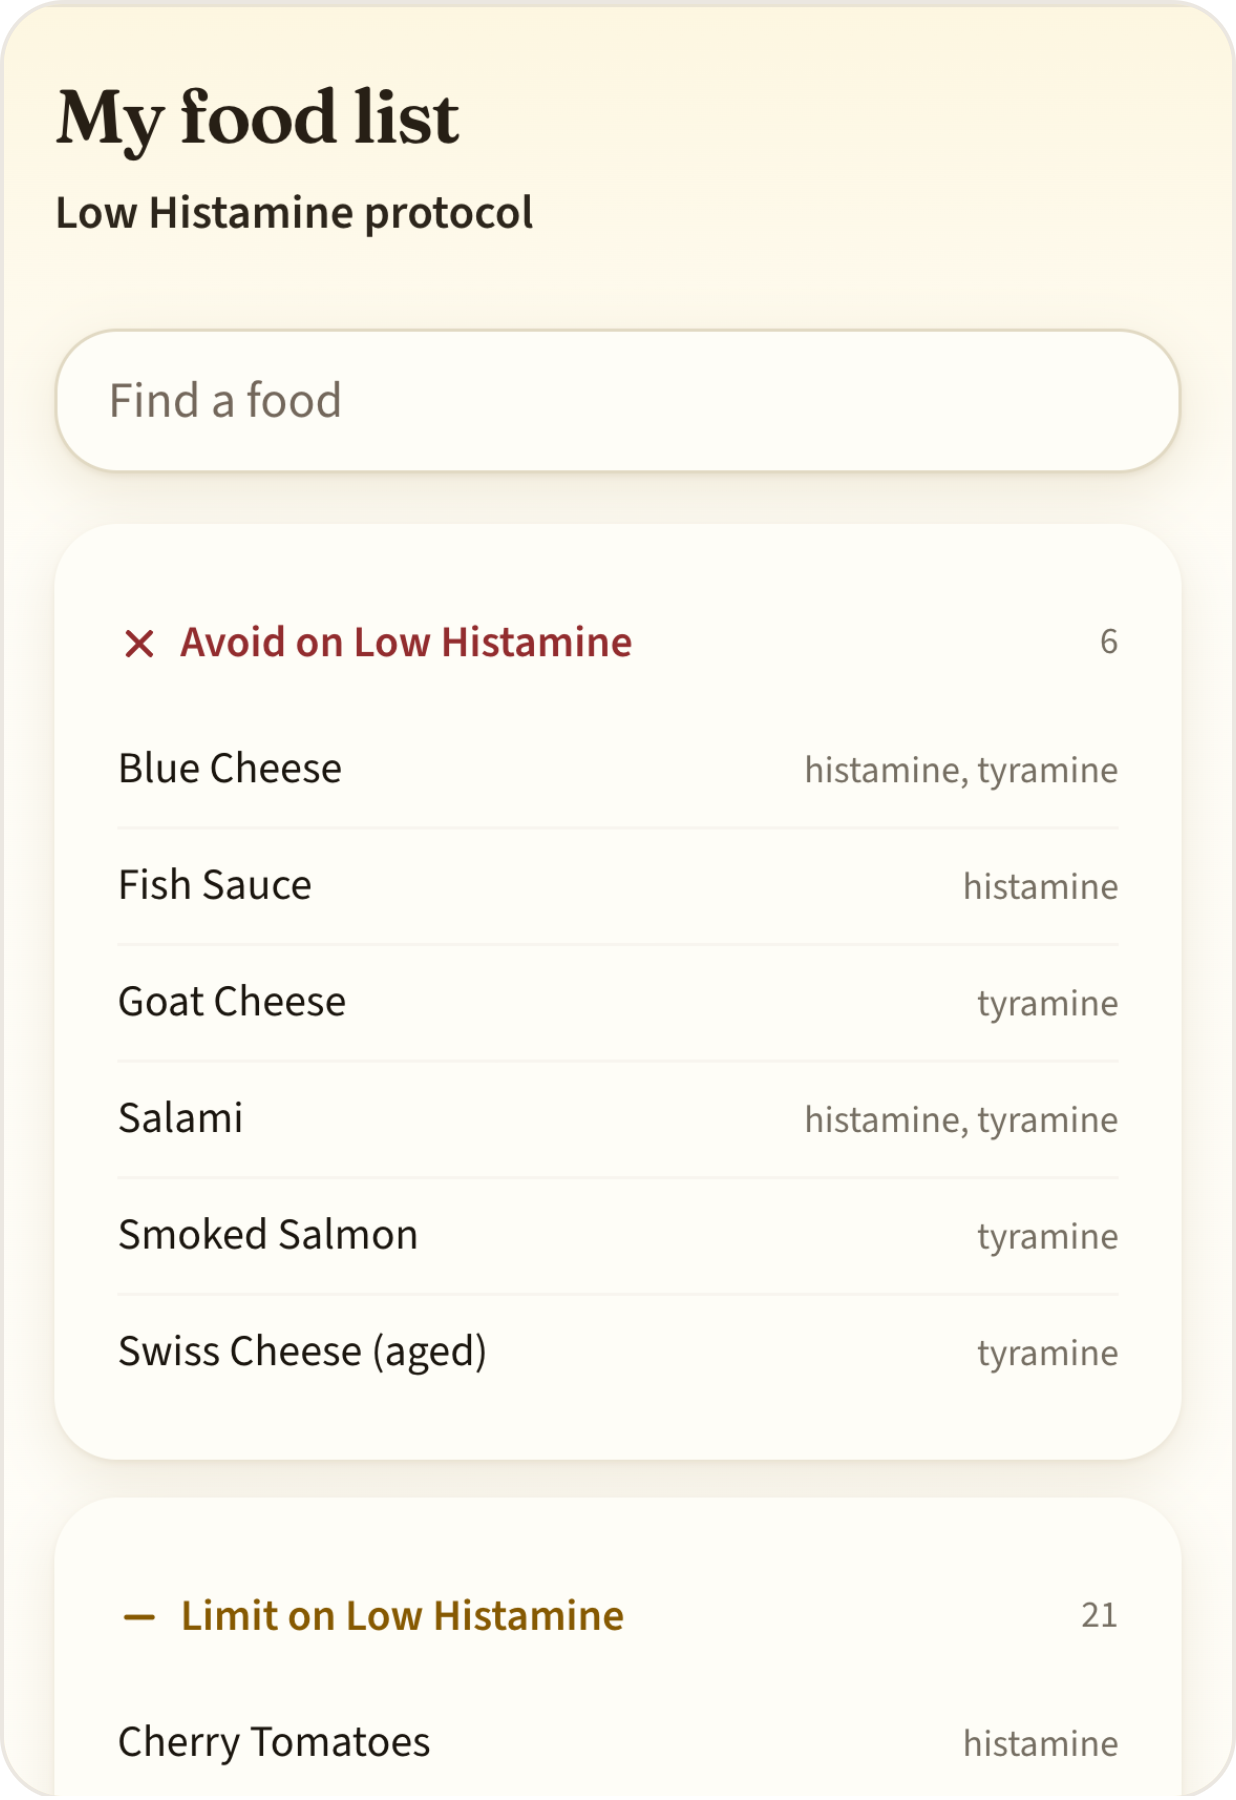
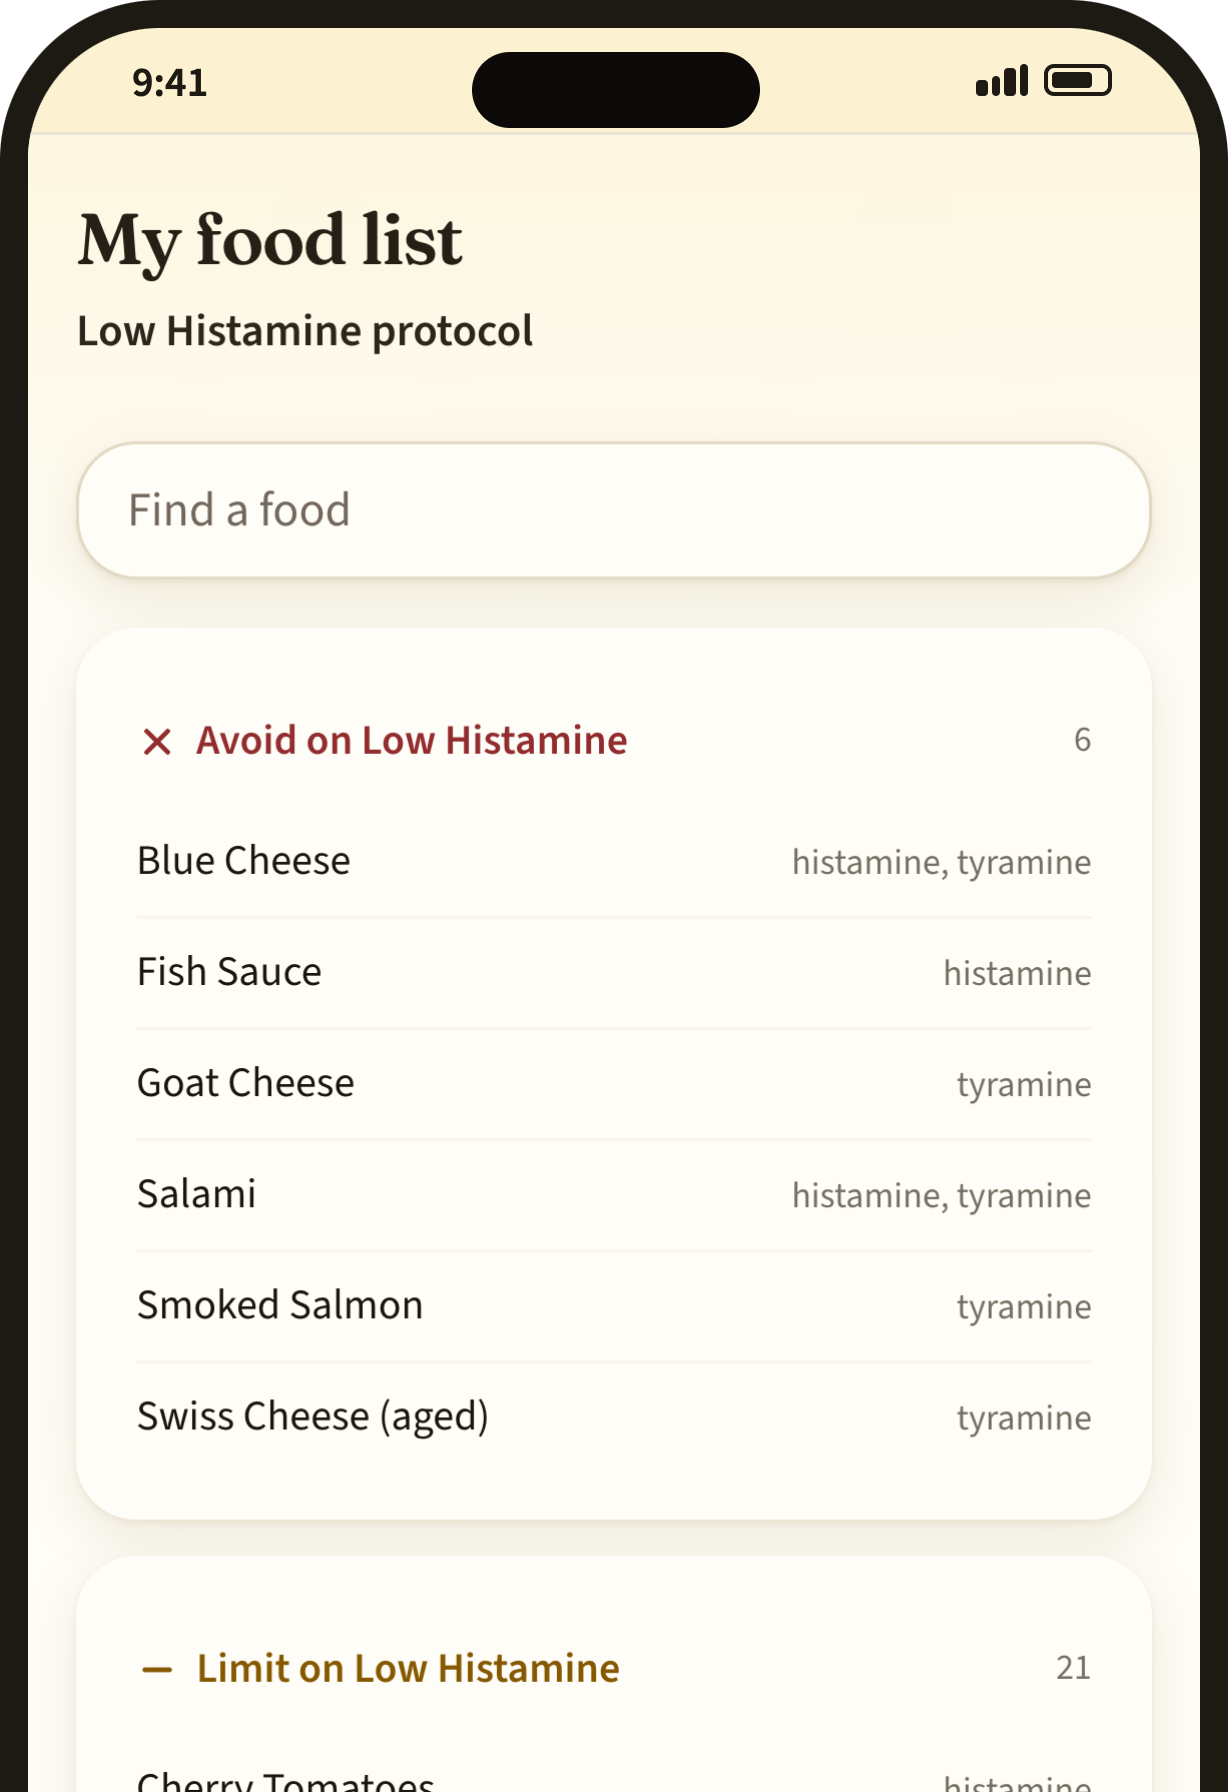
fix(demo): oxalate load drives joint pain, histamine drives hives; PDF cards in iPhone frames
Joint pain was planted only after spinach and almonds while quinoa, sweet potato and
green beans (also very high oxalate) sat in everyday meals, and spinach was the only
histamine food, so Insights tied joint pain to histamine. Everyday meals are now low in
oxalate, very-high-oxalate foods come together on her high-oxalate days, spinach is
occasional, and strawberry slips (a histamine releaser) bring hives.

diff --git a/.impeccable/review-2026-11/pdf-final/phone-frame.html b/.impeccable/review-2026-11/pdf-final/phone-frame.html
@@ -1,0 +1,18 @@
+<!doctype html><meta charset="utf-8">
+<link rel="stylesheet" href="https://fonts.googleapis.com/css2?family=Source+Sans+3:wght@600&display=block">
+<style>
+/* Each PDF card as the top of an iPhone: black frame on top and sides, Dynamic Island,
+   status bar; the phone runs off the bottom of the card. */
+body{margin:0;background:transparent;font-family:"Source Sans 3",sans-serif}
+.c{width:307px;height:448px;box-sizing:border-box;background:#1d1a14;padding:7px 7px 0;border-radius:40px 40px 0 0;display:flex}
+.scr{flex:1;border-radius:33px 33px 0 0;overflow:hidden;display:flex;flex-direction:column;background:oklch(0.961 0.044 93.1)}
+.sb{height:26px;flex:none;position:relative;display:flex;align-items:center;justify-content:space-between;padding:0 22px 0 26px;font-size:10.5px;font-weight:600;color:#1d1a14}
+.island{position:absolute;left:50%;top:6px;width:72px;height:19px;margin-left:-36px;border-radius:10px;background:#0b0a08}
+.ic{display:flex;gap:4px;align-items:center}
+.bars{display:flex;gap:1px;align-items:flex-end}.bars i{width:2.5px;background:#1d1a14;border-radius:1px}
+.bat{width:17px;height:8.5px;border:1px solid #1d1a14;border-radius:2.5px;padding:1px;box-sizing:border-box}.bat i{display:block;height:100%;width:78%;background:#1d1a14;border-radius:1px}
+.scr img{display:block;width:100%;flex:1;min-height:0;object-fit:cover;object-position:top}
+</style>
+<div class="c" id="a"><div class="scr"><div class="sb"><span>9:41</span><span class="island"></span><span class="ic"><span class="bars"><i style="height:4px"></i><i style="height:5.5px"></i><i style="height:7px"></i><i style="height:8.5px"></i></span><span class="bat"><i></i></span></span></div><img src="../pdf/panel-1-insights-now.png"></div></div>
+<div class="c" id="b"><div class="scr"><div class="sb"><span>9:41</span><span class="island"></span><span class="ic"><span class="bars"><i style="height:4px"></i><i style="height:5.5px"></i><i style="height:7px"></i><i style="height:8.5px"></i></span><span class="bat"><i></i></span></span></div><img src="../pdf/panel-2-log-top.png"></div></div>
+<div class="c" id="c"><div class="scr"><div class="sb"><span>9:41</span><span class="island"></span><span class="ic"><span class="bars"><i style="height:4px"></i><i style="height:5.5px"></i><i style="height:7px"></i><i style="height:8.5px"></i></span><span class="bat"><i></i></span></span></div><img src="../pdf/panel-3-list-now.png"></div></div>

diff --git a/.impeccable/review-2026-11/pdf-final/card-1-insights.html b/.impeccable/review-2026-11/pdf-final/card-1-insights.html
@@ -33,14 +33,14 @@ body{margin:0;background:transparent;font-family:"Source Sans 3",sans-serif;-web
   <h1 class="ttl">Insights</h1>
   <p class="sec red"><svg viewBox="0 0 24 24"><polyline points="22 7 13.5 15.5 8.5 10.5 2 17"/><polyline points="16 7 22 7 22 13"/></svg>Possible triggers</p>
   <div class="panel">
-    <div class="row"><div class="top"><p class="t">Leftover food<span class="arrow">→</span>hives</p><span class="str"><span class="dots"><i></i><i></i><i></i></span>Strong</span></div>
-      <p class="l">Hives on 13 of 14 days <span>· 7% on other days</span></p></div>
+    <div class="row"><div class="top"><p class="t">Leftover food<span class="arrow">→</span>hives</p><span class="str"><span class="dots"><i></i><i></i><i class="o"></i></span>Moderate</span></div>
+      <p class="l">Hives on 11 of 14 days <span>· 22% on other days</span></p></div>
     <div class="row"><div class="top"><p class="t">Almonds<span class="arrow">→</span>joint pain</p><span class="str"><span class="dots"><i></i><i></i><i class="o"></i></span>Moderate</span></div>
-      <p class="l">Within 4 hours, 11 of 14 times <span>· 5% after other meals</span></p></div>
+      <p class="l">Within 4 hours, 9 of 19 times <span>· 2% after other meals</span></p></div>
   </div>
   <p class="sec och"><svg viewBox="0 0 24 24"><path d="M2.062 12.348a1 1 0 0 1 0-.696 10.75 10.75 0 0 1 19.876 0 1 1 0 0 1 0 .696 10.75 10.75 0 0 1-19.876 0"/><circle cx="12" cy="12" r="3"/></svg>Worth keeping an eye on</p>
   <div class="panel">
-    <div class="row"><p class="t">Foods with histamine</p><p class="l">Joint pain on 9 of 11 days</p></div>
+    <div class="row"><p class="t">Foods very high in oxalate</p><p class="l">Joint pain on 9 of 19 days</p></div>
   </div>
   <p class="note">Patterns in your own log, not a diagnosis.</p>
 </div>
